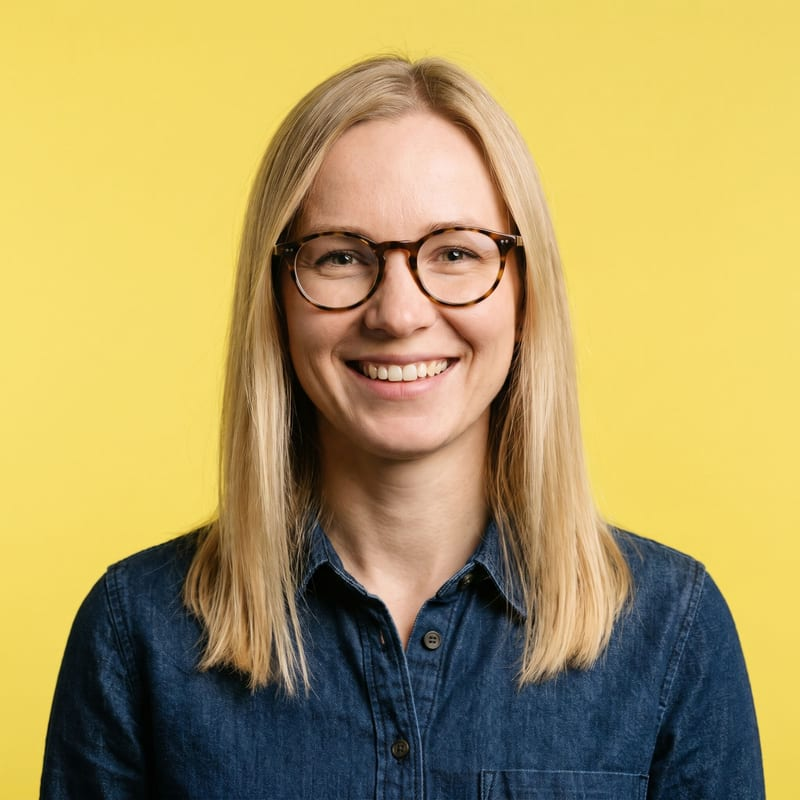
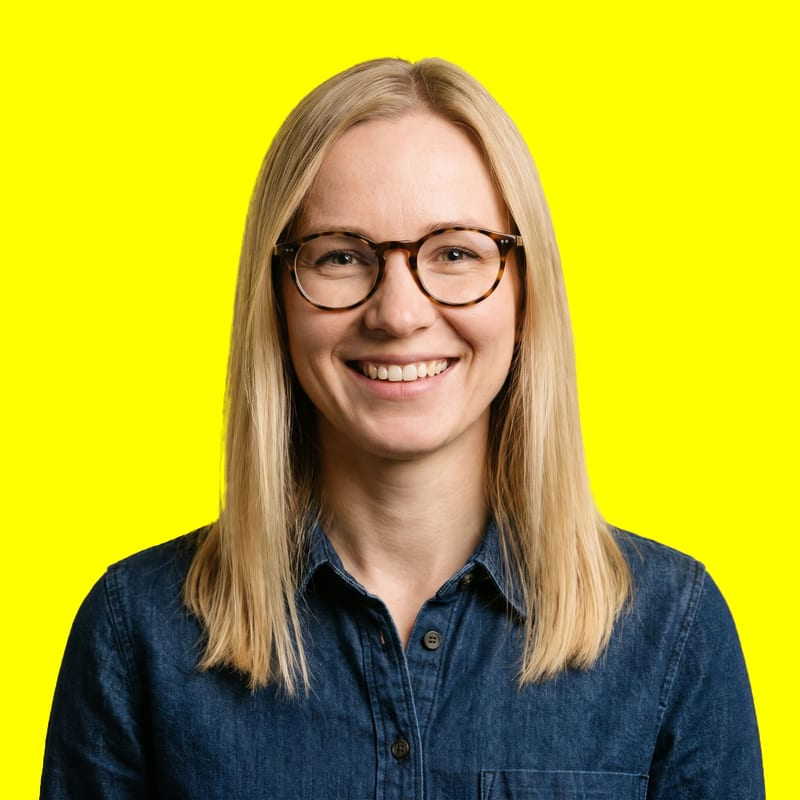
redesign: photographed ink splats and header drips, framed photos
Teacher portraits on the site yellow, learning photo in a black frame
with a hard shadow; ink images are plain transparent PNGs.

diff --git a/src/components/site/ink.tsx b/src/components/site/ink.tsx
@@ -1,8 +1,9 @@
 import type { ComponentProps } from "react";
 import { cn } from "@/lib/utils";
 
-/* Printed-ink decorations. Shapes are generated from a seed, so server and
-   client render the same markup and every splat can look different. */
+/* Printed-ink decorations. Splats and the header edge are photographed ink;
+   section edges are generated from a seed, so server and client render the
+   same markup. */
 
 function random(seed: number) {
   let state = seed >>> 0;
@@ -17,64 +18,40 @@ function random(seed: number) {
 
 const round = (n: number) => Math.round(n * 10) / 10;
 
-/** Closed smooth path through points (Catmull-Rom converted to cubic Béziers). */
-function smoothClosedPath(points: [number, number][]) {
-  const n = points.length;
-  const at = (i: number) => points[(i + n) % n];
-  let d = `M${round(at(0)[0])} ${round(at(0)[1])}`;
-  for (let i = 0; i < n; i++) {
-    const [p0, p1, p2, p3] = [at(i - 1), at(i), at(i + 1), at(i + 2)];
-    const c1 = [p1[0] + (p2[0] - p0[0]) / 6, p1[1] + (p2[1] - p0[1]) / 6];
-    const c2 = [p2[0] - (p3[0] - p1[0]) / 6, p2[1] - (p3[1] - p1[1]) / 6];
-    d += ` C${round(c1[0])} ${round(c1[1])} ${round(c2[0])} ${round(c2[1])} ${round(p2[0])} ${round(p2[1])}`;
-  }
-  return `${d} Z`;
-}
+/* Photographed black ink, cut out to transparent PNGs. Plain images rather
+   than CSS masks: masks are repainted on every animation frame. */
+export const INK_SPLATS = ["/images/ink-splat-1.png", "/images/ink-splat-2.png", "/images/ink-splat-3.png"];
 
-function splatShape(seed: number) {
-  const rnd = random(seed);
-  const points: [number, number][] = [];
-  const count = 30;
-  for (let i = 0; i < count; i++) {
-    const angle = (i / count) * Math.PI * 2 + (rnd() - 0.5) * 0.12;
-    let radius = 44 + rnd() * 14;
-    if (rnd() < 0.2) radius += 18 + rnd() * 26; // a splash arm
-    points.push([100 + Math.cos(angle) * radius, 100 + Math.sin(angle) * radius]);
-  }
-  const drops = Array.from({ length: 12 + Math.floor(rnd() * 6) }, () => {
-    const angle = rnd() * Math.PI * 2;
-    const distance = 66 + rnd() * 30;
-    return {
-      cx: round(100 + Math.cos(angle) * distance),
-      cy: round(100 + Math.sin(angle) * distance),
-      r: round(1.2 + (1 - (distance - 66) / 30) * 4.5 * rnd() + 0.8),
-    };
-  });
-  return { body: smoothClosedPath(points), drops };
-}
-
-/** An ink splat. Colour comes from `currentColor`. */
+/** A black ink splat; the seed picks the shape and its turn. */
 export function InkSplat({
   seed,
   className,
+  style,
   ...rest
-}: { seed: number; className?: string } & Omit<ComponentProps<"svg">, "children">) {
-  const { body, drops } = splatShape(seed);
+}: { seed: number; className?: string } & Omit<ComponentProps<"img">, "children" | "src" | "alt">) {
+  const turn = Math.round(random(seed)() * 360);
   return (
-    <svg
-      viewBox="0 0 200 200"
-      className={cn("pointer-events-none", className)}
+    // Decorative and tiny: next/image would add nothing here.
+    // eslint-disable-next-line @next/next/no-img-element
+    <img
+      src={INK_SPLATS[seed % INK_SPLATS.length]}
+      alt=""
       aria-hidden
-      focusable="false"
+      draggable={false}
+      className={cn("pointer-events-none block object-contain select-none", className)}
+      style={{ rotate: `${turn}deg`, ...style }}
       {...rest}
-    >
-      <g fill="currentColor">
-        <path d={body} />
-        {drops.map((drop, i) => (
-          <circle key={i} {...drop} />
-        ))}
-      </g>
-    </svg>
+    />
+  );
+}
+
+/** Black paint dripping from under the site header. */
+export function InkEdge({ className }: { className?: string }) {
+  return (
+    <div aria-hidden className={cn("pointer-events-none h-[clamp(72px,8vw,150px)] overflow-hidden", className)}>
+      {/* eslint-disable-next-line @next/next/no-img-element */}
+      <img src="/images/ink-edge.png" alt="" draggable={false} className="block h-full w-[max(100%,1100px)] max-w-none select-none" />
+    </div>
   );
 }
 

diff --git a/src/components/site/teachers-section.tsx b/src/components/site/teachers-section.tsx
@@ -1,6 +1,6 @@
 import { useTranslations } from "next-intl";
 import { COURSES } from "@/lib/site/courses";
-import { HalftonePhoto } from "./halftone-photo";
+import Image from "next/image";
 import { Section, SectionTitle } from "./section";
 
 export function TeachersSection() {
@@ -19,13 +19,15 @@ export function TeachersSection() {
             <li key={course.id}>
               {/* A staff pass: photo, name, course. */}
               <article className="flex h-full flex-col bg-paper text-ink">
-                <HalftonePhoto
-                  src={`/images/teacher-${course.id}.jpg`}
-                  alt={t(`${key}.photoAlt`)}
-                  sizes="(min-width: 1024px) 360px, (min-width: 640px) 45vw, 100vw"
-                  className="aspect-square"
-                  imageClassName="object-top"
-                />
+                <div className="relative aspect-square border-b-[3px] border-ink">
+                  <Image
+                    src={`/images/teacher-${course.id}.jpg`}
+                    alt={t(`${key}.photoAlt`)}
+                    fill
+                    sizes="(min-width: 1024px) 360px, (min-width: 640px) 45vw, 100vw"
+                    className="object-cover"
+                  />
+                </div>
                 <div className="flex flex-1 flex-col p-5">
                   <p className="self-start bg-ink px-2 py-0.5 text-xs font-bold text-sun">
                     {t(`courses.items.${course.id}.name`)}

diff --git a/src/app/[locale]/page.tsx b/src/app/[locale]/page.tsx
@@ -5,6 +5,7 @@ import { CareerSection } from "@/components/site/career-section";
 import { ContactsSection } from "@/components/site/contacts-section";
 import { CoursesSection } from "@/components/site/courses-section";
 import { Hero } from "@/components/site/hero";
+import { InkEdge } from "@/components/site/ink";
 import { LeadDialogProvider } from "@/components/site/lead-dialog";
 import { LearningSection } from "@/components/site/learning-section";
 import { MotionRoot } from "@/components/site/motion-root";
@@ -34,7 +35,10 @@ export default async function HomePage({ params }: PageProps<"/[locale]">) {
         <MotionRoot>
           <SiteHeader />
           {/* Clip the slanted ticker and splats that reach past the page edge. */}
-          <main className="overflow-x-clip">
+          <main className="relative overflow-x-clip">
+            {/* Paint dripping from under the header; it stays at the top of the page
+                instead of following the sticky header over the content. */}
+            <InkEdge className="absolute inset-x-0 -top-7 z-20 text-ink sm:-top-9" />
             <Hero />
             <Ticker />
             <Starts />

diff --git a/src/components/site/learning-section.tsx b/src/components/site/learning-section.tsx
@@ -1,5 +1,5 @@
 import { useTranslations } from "next-intl";
-import { HalftonePhoto } from "./halftone-photo";
+import { FramedPhoto } from "./framed-photo";
 import { InkSplat } from "./ink";
 import { Section, SectionTitle } from "./section";
 
@@ -16,12 +16,12 @@ export function LearningSection() {
           <SectionTitle id="learning-title">{t("title")}</SectionTitle>
           <p className="mt-5 max-w-[42ch] text-[17px] leading-relaxed text-ink-soft">{t("subtitle")}</p>
           <div className="relative mt-10 hidden md:block">
-            <InkSplat seed={58} data-anim="splat" className="absolute -top-10 -right-8 size-40 text-ink" />
-            <HalftonePhoto
+            <InkSplat seed={58} data-anim="splat" className="absolute -top-14 -right-12 size-44 text-ink" />
+            <FramedPhoto
               src="/images/learning.jpg"
               alt={t("photoAlt")}
               sizes="(min-width: 768px) 440px, 0px"
-              className="relative aspect-[4/3]"
+              className="aspect-[4/3] -rotate-1"
             />
           </div>
         </div>

diff --git a/src/components/site/hero.tsx b/src/components/site/hero.tsx
@@ -15,7 +15,7 @@ export function Hero() {
       {/* Safety net: if the entrance animation hasn't started in 2.5 s (slow network,
           no JavaScript), a CSS animation shows the hidden elements anyway. */}
       <style>{"@keyframes hero-reveal{to{visibility:visible}}[data-hero-hidden]{animation:hero-reveal 0s 2.5s forwards}"}</style>
-      <div className="mx-auto grid max-w-6xl items-center gap-12 px-4 pt-8 pb-16 sm:px-6 md:grid-cols-[1.1fr_1fr] md:pt-12 md:pb-24">
+      <div className="mx-auto grid max-w-6xl items-center gap-12 px-4 pt-20 pb-16 sm:px-6 md:grid-cols-[1.1fr_1fr] md:pt-28 md:pb-24">
         <div className="relative z-10">
           <h1
             id="hero-title"

diff --git a/src/components/site/framed-photo.tsx b/src/components/site/framed-photo.tsx
@@ -1,0 +1,23 @@
+import Image from "next/image";
+import { cn } from "@/lib/utils";
+
+/** A photo in a thick black frame with a hard offset shadow, like a print pasted on a poster. */
+export function FramedPhoto({
+  src,
+  alt,
+  sizes,
+  className,
+  imageClassName,
+}: {
+  src: string;
+  alt: string;
+  sizes: string;
+  className?: string;
+  imageClassName?: string;
+}) {
+  return (
+    <div className={cn("relative overflow-hidden border-[3px] border-ink bg-ink shadow-[8px_8px_0_var(--color-ink)]", className)}>
+      <Image src={src} alt={alt} fill sizes={sizes} className={cn("object-cover", imageClassName)} />
+    </div>
+  );
+}

diff --git a/src/components/site/site-header.tsx b/src/components/site/site-header.tsx
@@ -60,7 +60,7 @@ export function SiteHeader() {
         </div>
       </div>
       {/* The ink runs off the bar onto the page below. */}
-      <TornEdge seed={7} className="-mt-px text-ink" />
+      <TornEdge seed={7} drips={false} className="-mt-px text-ink" />
     </header>
   );
 }
